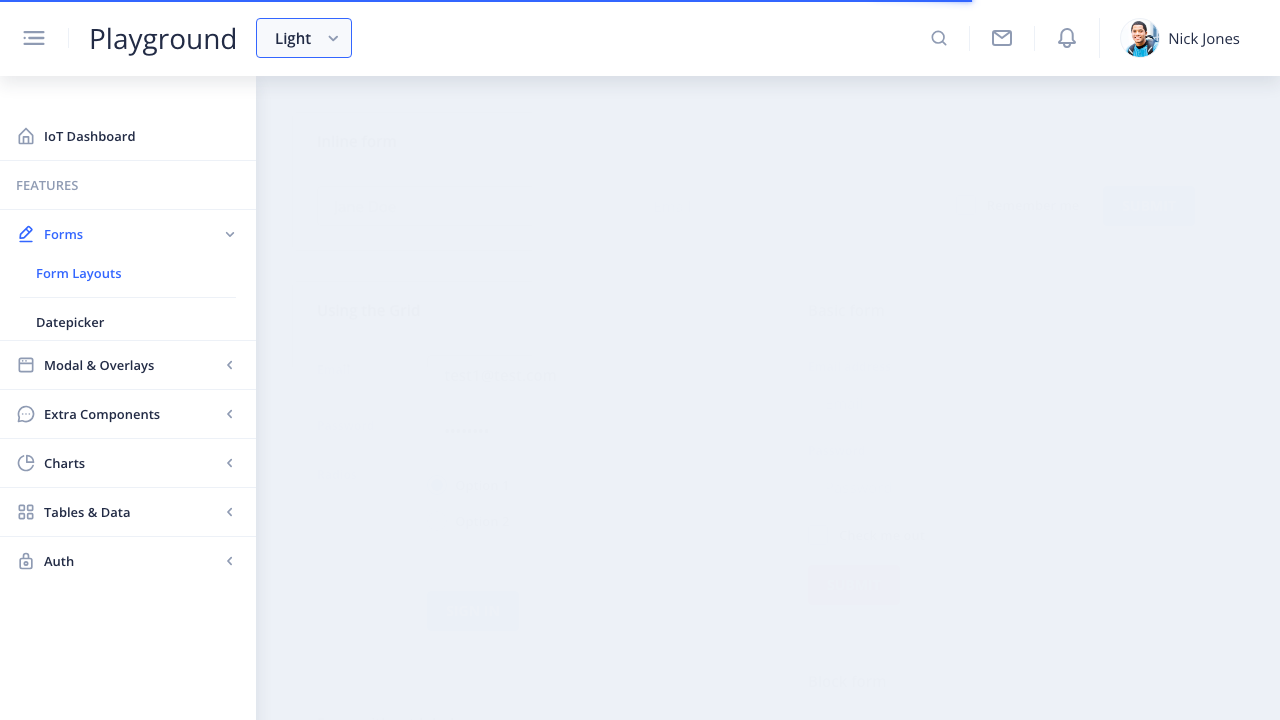
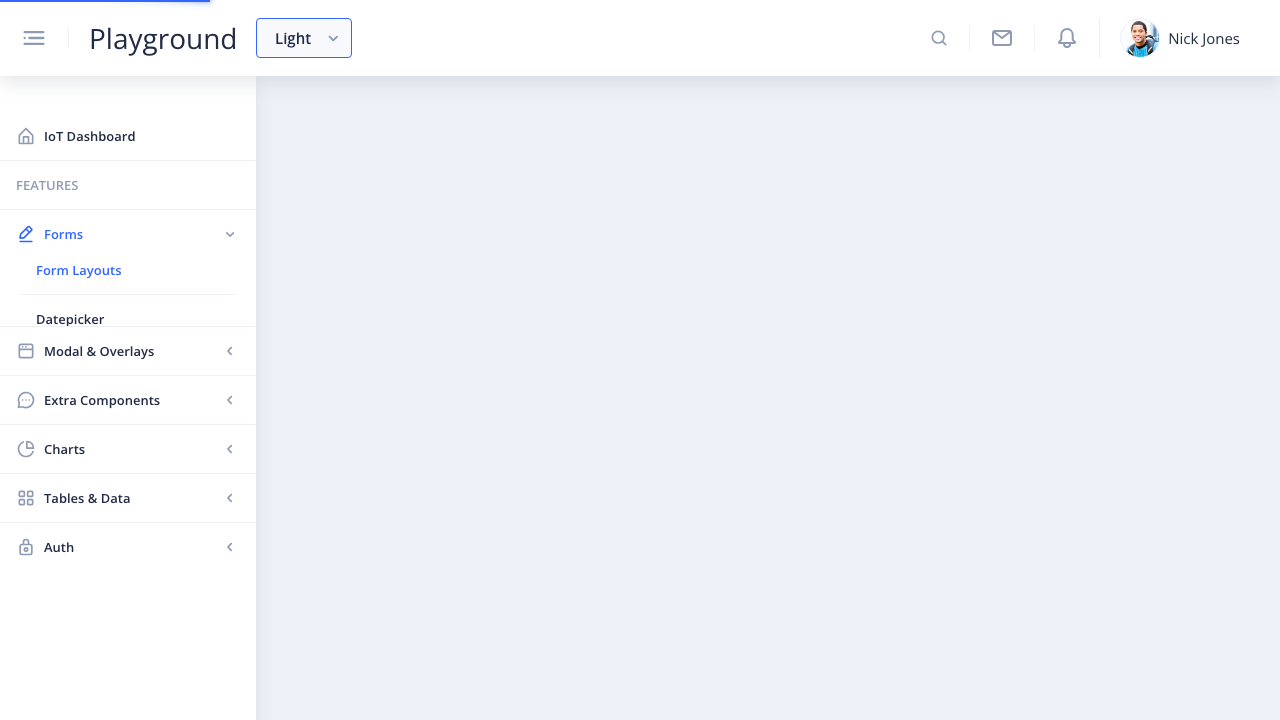
.env second lesson

diff --git a/playwright.config.ts b/playwright.config.ts
@@ -4,9 +4,9 @@ import { defineConfig, devices } from '@playwright/test';
  * Read environment variables from file.
  * https://github.com/motdotla/dotenv
  */
-// import dotenv from 'dotenv';
-// import path from 'path';
-// dotenv.config({ path: path.resolve(__dirname, '.env') });
+import dotenv from 'dotenv';
+import path from 'path';
+dotenv.config({ path: path.resolve(__dirname, process.env.TEST_ENV ? `.env.${process.env.TEST_ENV}` : '.env') });
 
 /**
  * See https://playwright.dev/docs/test-configuration.
@@ -31,7 +31,7 @@ export default defineConfig({
   /* Shared settings for all the projects below. See https://playwright.dev/docs/api/class-testoptions. */
   use: {
     /* Base URL to use in actions like `await page.goto('')`. */
-    baseURL: 'https://playground.bondaracademy.com/',
+    baseURL: process.env.URL,
 
     /* Collect trace when retrying the failed test. See https://playwright.dev/docs/trace-viewer */
     trace: 'on-first-retry',

diff --git a/tests/test-with-page-objects.spec.ts b/tests/test-with-page-objects.spec.ts
@@ -26,7 +26,7 @@ test('Parametrized page object methods', async ({page}) => {
     const randomEmail = faker.internet.email({provider: 'test.com'})
 
     await pom.navigateTo.formLayoutsPage()
-    await pom.formLayoutsPage.submitUsingTheGridForm('test1@test.com', 'Welcome1', 'Option 1')
+    await pom.formLayoutsPage.submitUsingTheGridForm(process.env.TEST_USER_EMAIL!, process.env.TEST_USER_PASSWORD!, 'Option 1')
 
        //screenshot 
     await page.screenshot({path: 'screenshots/formlayoutsPage.png'})
